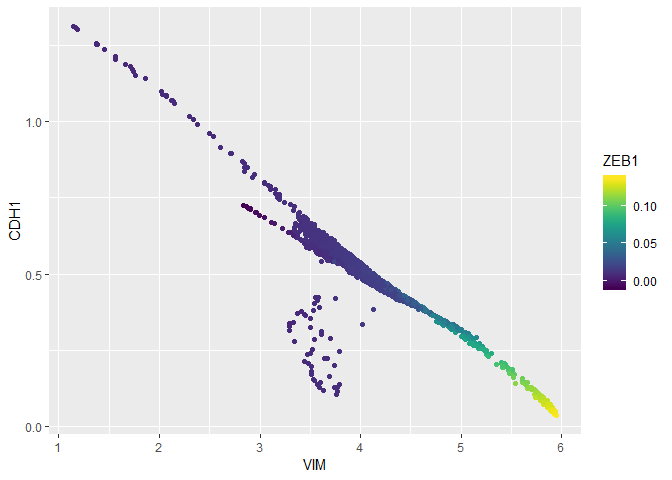
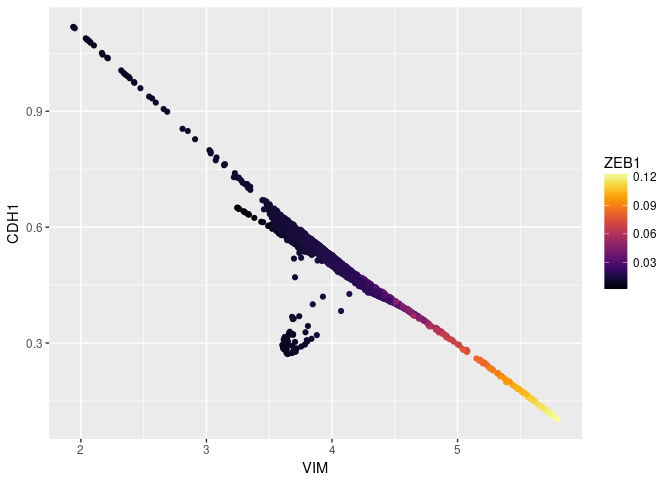
update tutorial and readme

diff --git a/R/inst/examples/emt_tutorial.md b/R/inst/examples/emt_tutorial.md
@@ -1,0 +1,247 @@
+Rmagic EMT Tutorial
+================
+
+<!-- README.md is generated from README.Rmd. Please edit that file -->
+
+## MAGIC (Markov Affinity-Based Graph Imputation of Cells)
+
+  - MAGIC imputes missing data values on sparse data sets, restoring the
+    structure of the data
+  - It also proves dimensionality reduction and gene expression
+    visualizations
+  - MAGIC can be performed on a variety of datasets
+  - Here, we show the effectiveness of MAGIC on
+    epithelial-to-mesenchymal transition (EMT) data
+
+Markov Affinity-based Graph Imputation of Cells (MAGIC) is an algorithm
+for denoising and transcript recover of single cells applied to
+single-cell RNA sequencing data, as described in Van Dijk D *et al.*
+(2018), *Recovering Gene Interactions from Single-Cell Data Using Data
+Diffusion*, Cell
+<https://www.cell.com/cell/abstract/S0092-8674(18)30724-4>.
+
+### Installation
+
+To use MAGIC, you will need to install both the R and Python packages.
+
+In R, run these commands to install MAGIC and all dependencies:
+
+``` r
+if (!require(devtools)) install.packages(devtools)
+if (!require(Rmagic)) devtools::install_github("KrishnaswamyLab/magic/R")
+```
+
+In a terminal, run the following command to install the Python
+repository.
+
+``` bash
+pip install --user git+git://github.com/KrishnaswamyLab/MAGIC.git#subdirectory=python
+```
+
+We’ll install a couple more tools for this tutorial.
+
+``` r
+if (!require(viridis)) install.packages("viridis")
+if (!require(ggplot2)) install.packages("ggplot2")
+if (!require(readr)) install.packages("readr")
+if (!require(phateR)) install.packages("phateR")
+```
+
+If you have never used PHATE, you should also install PHATE from the
+command line as follows:
+
+``` bash
+pip install --user phate
+```
+
+### Loading packages
+
+We load the Rmagic package and a few others for convenience functions.
+
+``` r
+library(Rmagic)
+```
+
+    ## Loading required package: Matrix
+
+``` r
+library(readr)
+library(ggplot2)
+library(viridis)
+```
+
+    ## Loading required package: viridisLite
+
+``` r
+library(phateR)
+```
+
+    ## 
+    ## Attaching package: 'phateR'
+
+    ## The following object is masked from 'package:Rmagic':
+    ## 
+    ##     library.size.normalize
+
+### Loading data
+
+The example data is located in the MAGIC Github repository.
+
+``` r
+# load data
+data <- read_csv("../../../data/HMLE_TGFb_day_8_10.csv.gz")
+```
+
+    ## Parsed with column specification:
+    ## cols(
+    ##   .default = col_integer()
+    ## )
+
+    ## See spec(...) for full column specifications.
+
+``` r
+data[1:5,1:10]
+```
+
+    ## # A tibble: 5 x 10
+    ##   `5S_rRNA` `5_8S_rRNA`  A1BG `A1BG-AS1`   A2M `A2M-AS1` A2ML1 `A2ML1-AS1`
+    ##       <int>       <int> <int>      <int> <int>     <int> <int>       <int>
+    ## 1         0           0     0          0     0         0     0           0
+    ## 2         0           0     0          0     0         0     0           0
+    ## 3         0           0     0          0     0         0     0           0
+    ## 4         0           0     0          0     0         0     0           0
+    ## 5         0           0     0          0     0         0     0           0
+    ## # ... with 2 more variables: A4GALT <int>, AAAS <int>
+
+First, we need to remove lowly expressed genes and cells with small
+library size.
+
+``` r
+# keep genes expressed in at least 10 cells
+keep_cols <- colSums(data > 0) > 10
+data <- data[,keep_cols]
+# look at the distribution of library sizes
+ggplot() +
+  geom_histogram(aes(x=rowSums(data)), bins=50) +
+  geom_vline(xintercept = 3000, color='red')
+```
+
+![](emt_tutorial_files/figure-gfm/unnamed-chunk-1-1.png)<!-- -->
+
+``` r
+# keep cells with at least 3000 UMIs and at most 15000
+keep_rows <- rowSums(data) > 3000 & rowSums(data) < 15000
+data <- data[keep_rows,]
+```
+
+We should library size normalize and transform the data prior to MAGIC.
+Many people use a log transform, which requires adding a “pseudocount”
+to avoid log(0). We square root instead, which has a similar form but
+doesn’t suffer from instabilities at zero.
+
+``` r
+data <- library.size.normalize(data)
+data <- sqrt(data)
+```
+
+### Running MAGIC
+
+Running MAGIC is as simple as running the `magic` function. Because this
+dataset is rather large, we can increase `k` from the default of 5 up to
+15.
+
+``` r
+# run MAGIC
+data_MAGIC <- magic(data, k=15, genes=c("VIM", "CDH1", "ZEB1"))
+```
+
+### Results
+
+We can plot the data before and after MAGIC to visualize the results.
+
+``` r
+ggplot(data) +
+  geom_point(aes(VIM, CDH1, colour=ZEB1)) + 
+  scale_colour_viridis(option="B")
+```
+
+![](emt_tutorial_files/figure-gfm/plot_raw-1.png)<!-- -->
+
+``` r
+ggsave('EMT_data_R_before_magic.png', width=5, height=5)
+```
+
+``` r
+ggplot(data_MAGIC) +
+  geom_point(aes(VIM, CDH1, colour=ZEB1)) + 
+  scale_colour_viridis(option="B")
+```
+
+![](emt_tutorial_files/figure-gfm/plot_magic-1.png)<!-- -->
+
+``` r
+ggsave('EMT_data_R_after_magic.png', width=5, height=5)
+```
+
+As you can see, the gene-gene relationships are much clearer after
+MAGIC. We can look at the entire smoothed matrix with
+`genes='all_genes'`, passing the original result to the argument `init`
+to avoid recomputing intermediate steps. Note that this matrix may be
+large and could take up a lot of memory.
+
+``` r
+data_MAGIC <- magic(data, k=15, genes="all_genes", init=data_MAGIC)
+as.data.frame(data_MAGIC)[1:5, 1:10]
+```
+
+    ##          A1BG   A1BG-AS1       A2ML1     A4GALT      AAAS      AACS
+    ## 1 0.001652799 0.03181386 0.008611862 0.01352016 0.1310461 0.2214583
+    ## 2 0.001712522 0.03251830 0.010301061 0.01520513 0.1290344 0.2226633
+    ## 3 0.001666287 0.03232608 0.010190187 0.01487386 0.1291938 0.2224736
+    ## 4 0.001909803 0.03766258 0.029331208 0.02878727 0.1084993 0.2373691
+    ## 5 0.001706013 0.03219870 0.009911144 0.01484650 0.1293207 0.2219350
+    ##        AADAT     AAED1     AAGAB      AAK1
+    ## 1 0.03053407 0.1472675 0.2744654 0.5680616
+    ## 2 0.02966139 0.1476464 0.2729096 0.5690817
+    ## 3 0.02996176 0.1469537 0.2727705 0.5709182
+    ## 4 0.02529005 0.1420828 0.2591433 0.6070924
+    ## 5 0.02984316 0.1473383 0.2727566 0.5681089
+
+### Visualizing MAGIC values on PCA
+
+We can visualize the results of MAGIC on PCA as follows.
+
+``` r
+gt <- reticulate::import("graphtools")
+dat <- gt$base$Data(as.matrix(data_MAGIC$result), n_pca=2L)
+data_MAGIC_PCA <- as.data.frame(dat$data_nu) # as.data.frame(prcomp(data_MAGIC)$x)
+colnames(data_MAGIC_PCA) <- c("PC1", "PC2")
+ggplot(data_MAGIC_PCA) +
+  geom_point(aes(x=PC1, y=PC2, color=data_MAGIC$result$VIM)) +
+  scale_color_viridis(option="B") +
+  labs(color="VIM")
+```
+
+![](emt_tutorial_files/figure-gfm/run_pca-1.png)<!-- -->
+
+``` r
+ggsave('EMT_data_R_pca_colored_by_magic.png', width=5, height=5)
+```
+
+### Visualizing MAGIC values on PHATE
+
+We can visualize the results of MAGIC on PHATE as follows.
+
+``` r
+data_PHATE <- phate(data, k=15)
+ggplot(data_PHATE) +
+  geom_point(aes(x=PHATE1, y=PHATE2, color=data_MAGIC$result$VIM)) +
+  scale_color_viridis(option="B") +
+  labs(color="VIM")
+```
+
+![](emt_tutorial_files/figure-gfm/run_phate-1.png)<!-- -->
+
+``` r
+ggsave('EMT_data_R_phate_colored_by_magic.png', width=5, height=5)
+```
